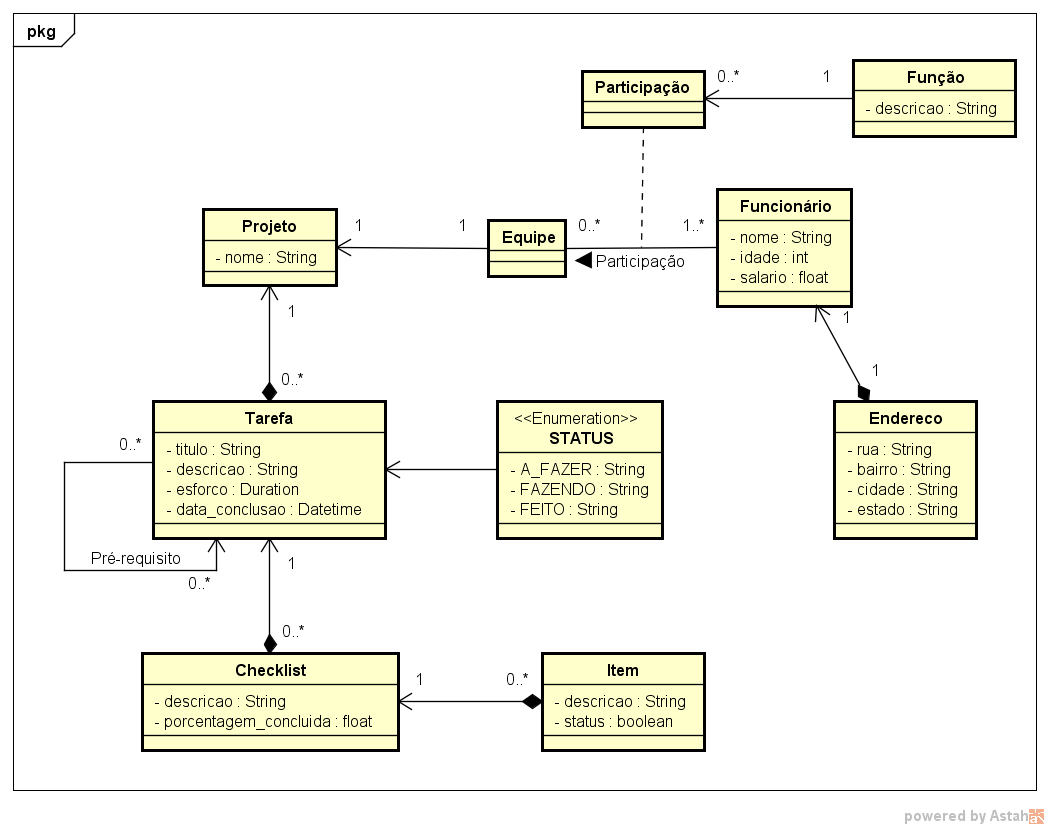
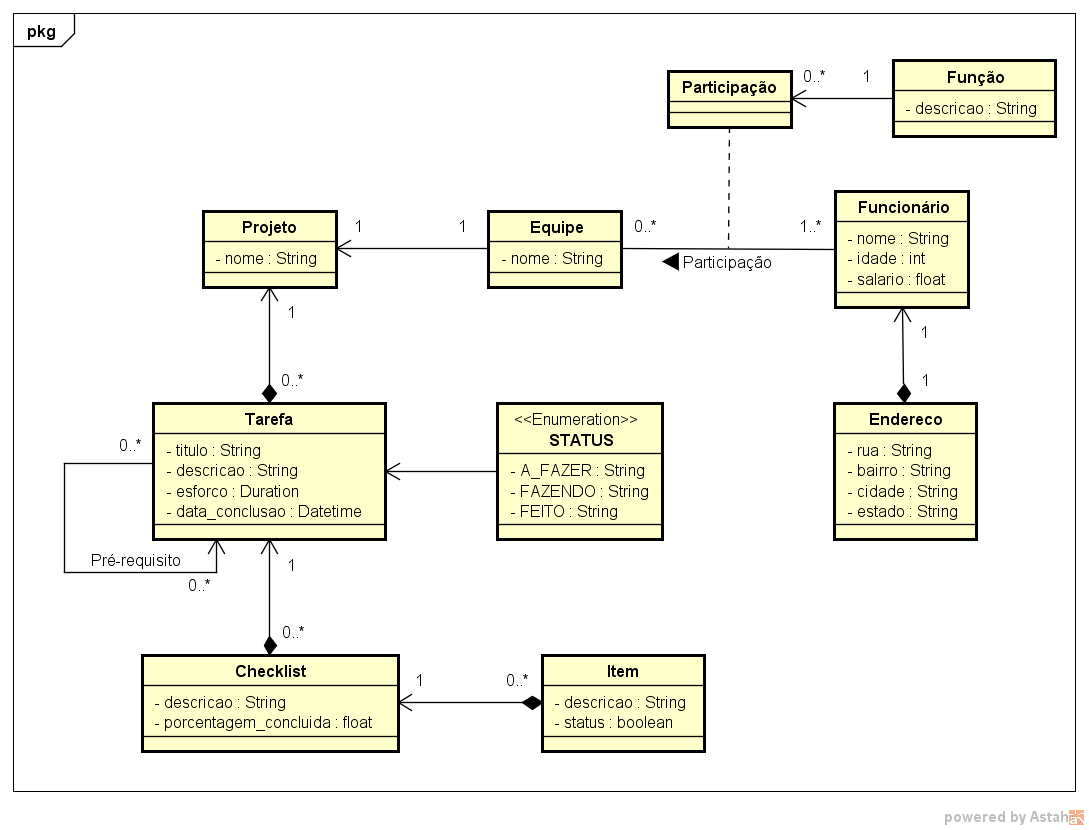
Atualizando diagrama de classes para representar adição do campo nome na Equipe.

diff --git a/projeto/models.py b/projeto/models.py
@@ -35,6 +35,7 @@ class Funcionario(models.Model):
 
 
 class Equipe(models.Model):
+    nome = models.CharField(max_length=50)
     projeto = models.OneToOneField(Projeto,on_delete=models.CASCADE)
     membros = models.ManyToManyField(Funcionario,through='Participacao')
 
@@ -44,7 +45,7 @@ class Equipe(models.Model):
 
 class Participacao(models.Model):
     equipe = models.ForeignKey(Equipe,on_delete=models.CASCADE,
-                            related_name="participacoes")
+                            related_name="participantes")
     funcionario = models.ForeignKey(Funcionario,on_delete=models.CASCADE,
                             related_name="participacoes")
     funcao = models.OneToOneField(Funcao)
